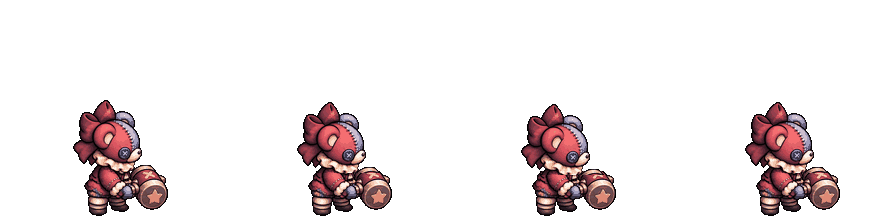
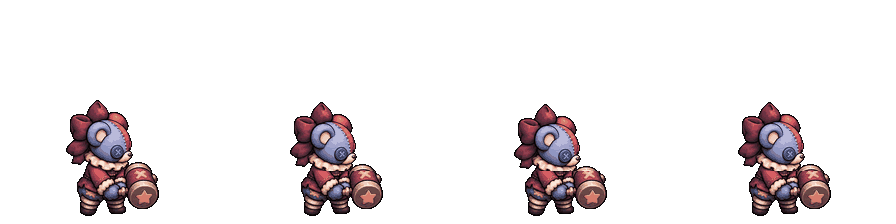
PATCHWORK hướng E: đòn 12 khung riêng (thấy nửa xanh, búa tay gần) + đứng chờ E, không lật từ W nữa
Claude-Session: https://claude.ai/code/session_016VkJ26f22ubevy4EnREsEV

diff --git a/demo/js/data.js b/demo/js/data.js
@@ -108,9 +108,9 @@ const TUONG = {
       idle: { s: { file: 'patchwork_idle_s', o: 224, ms: 260 }, se: { file: 'patchwork_idle_s', o: 224, ms: 260 }, sw: { file: 'patchwork_idle_s', o: 224, ms: 260 },
         w: { file: 'patchwork_idle_w', o: 224, ms: 260 }, e: { file: 'patchwork_idle_e', o: 224, ms: 260 },
         n: { file: 'patchwork_idle_n', o: 224, ms: 260 }, ne: { file: 'patchwork_idle_n', o: 224, ms: 260 }, nw: { file: 'patchwork_idle_n', o: 224, ms: 260 } },
-      atk: { file: { s: 'patchwork_atk_s', w: 'patchwork_atk_w', n: 'patchwork_atk_n' }, w: 224, h: 176,
+      atk: { file: { s: 'patchwork_atk_s', w: 'patchwork_atk_w', e: 'patchwork_atk_e', n: 'patchwork_atk_n' }, w: 224, h: 176,
         nhip: [200, 70, 70, 70, 70, 120, 60, 40, 160, 120, 80, 80], trung: 8,   // 12 khung ChatGPT; búa chạm đất ở khung 9
-        huong: { s: ['s', 0], se: ['s', 0], sw: ['s', 0], w: ['w', 0], e: ['w', 1], n: ['n', 0], ne: ['n', 0], nw: ['n', 0] } },
+        huong: { s: ['s', 0], se: ['s', 0], sw: ['s', 0], w: ['w', 0], e: ['e', 0], n: ['n', 0], ne: ['n', 0], nw: ['n', 0] } },
       to: 1.25 } },
 };
 const TUONG_IDS = Object.keys(TUONG);
